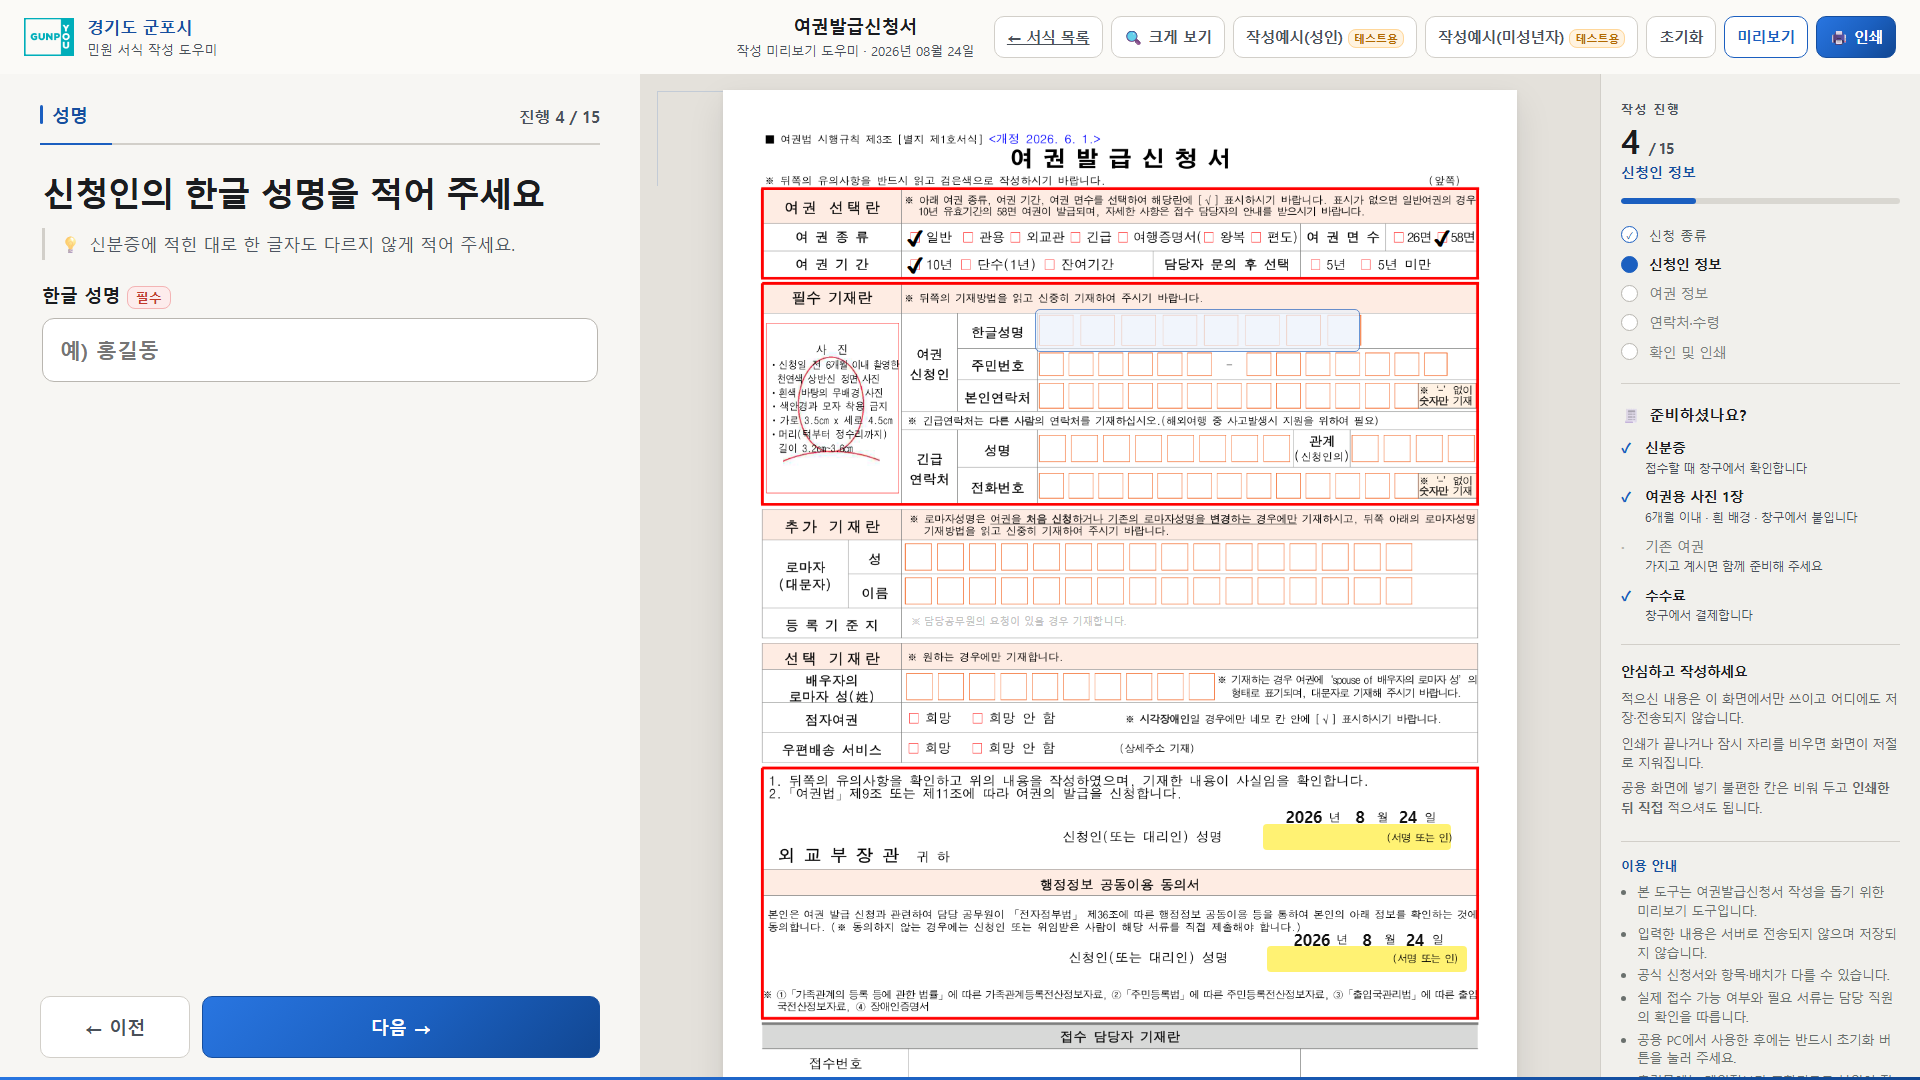
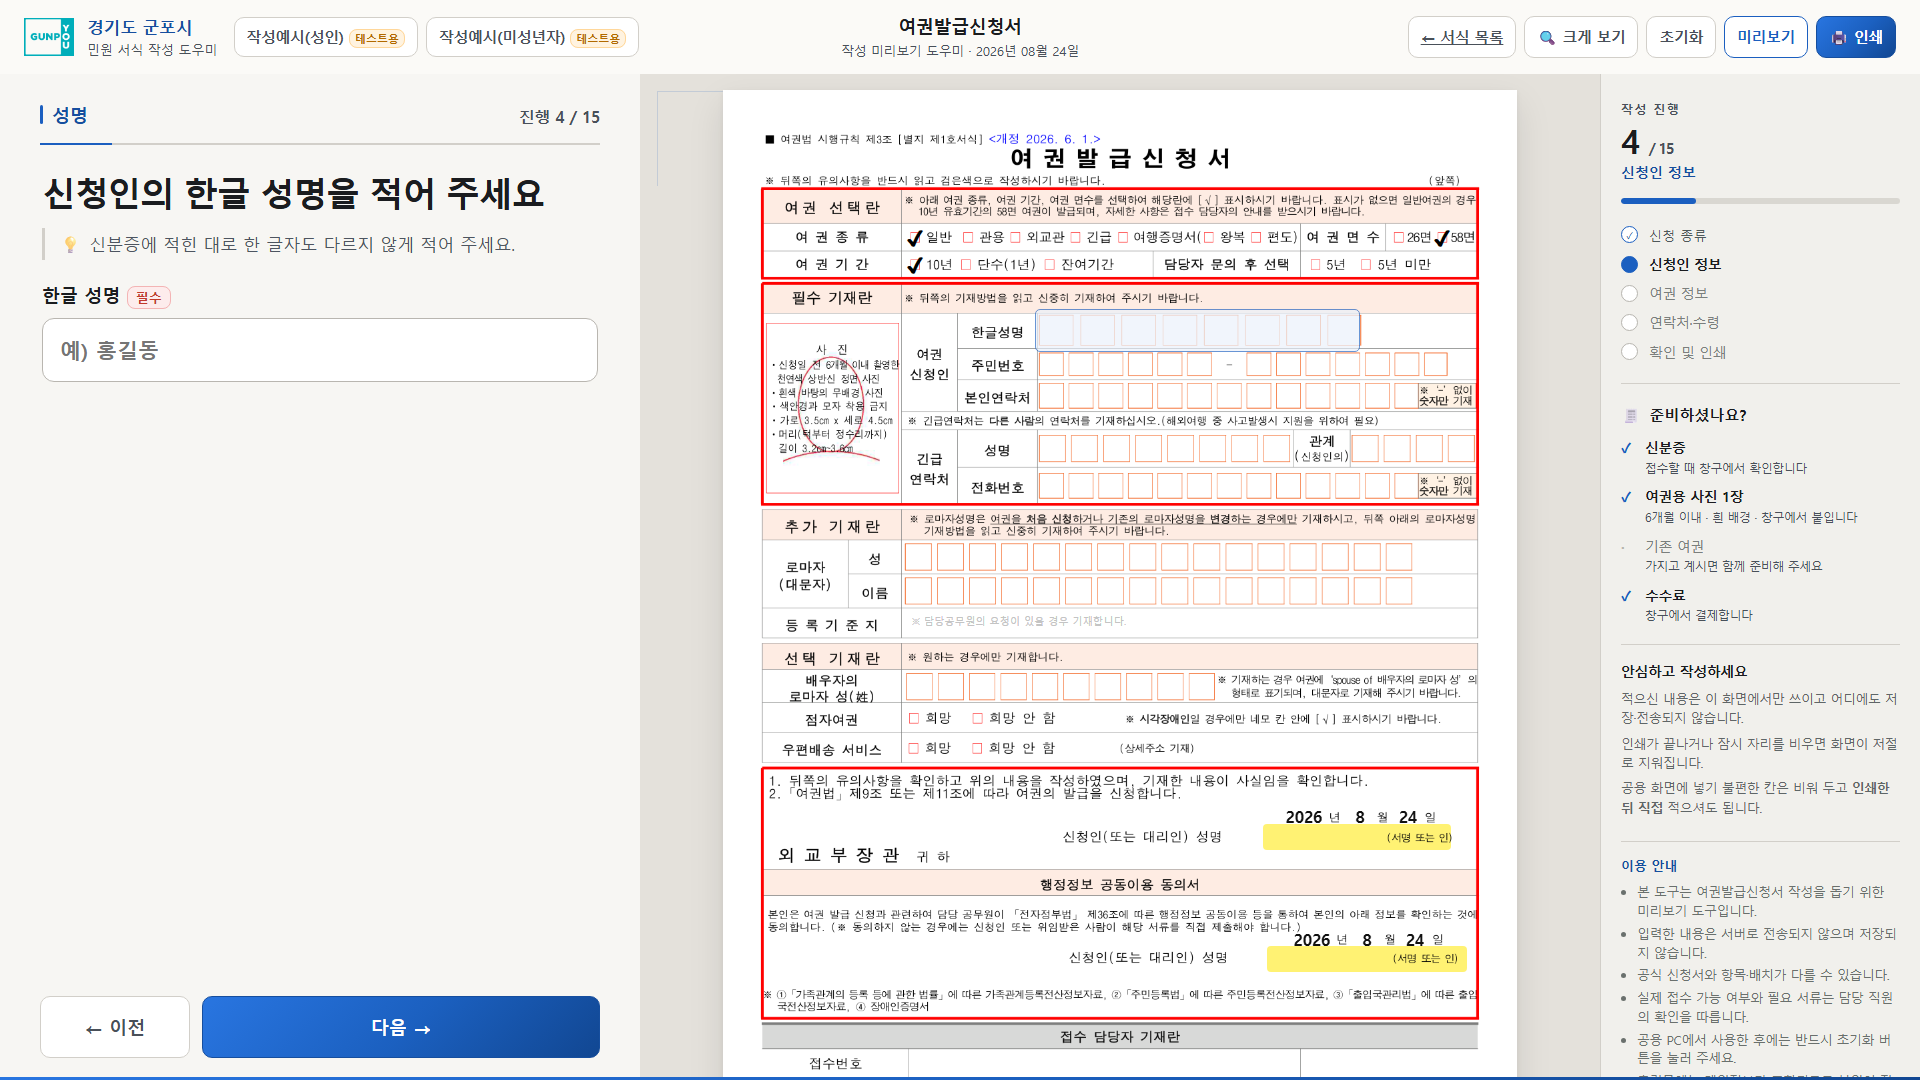
여권: 상단 바 재배치 — 담당자 도구는 왼쪽, 서식 이름은 정중앙
시안(docs/디자인검토/시안/2026.08.24-여권-상단바-재배치.jpg)대로.

■ 「작성예시(성인)·(미성년자)」를 로고 옆 왼쪽으로
  둘 다 **담당자 점검용(테스트용)**인데 시민이 쓰는 버튼들 사이에 끼어 있었다.
  왼쪽 묶음(.lead = 기관 표기 + 담당자 도구)으로 떼어 놓아, 오른쪽에는 시민이
  쓰는 것만 남는다 — 서식 목록 · 크게 보기 · 초기화 · 미리보기 · 인쇄.

■ 서식 이름을 화면 정중앙으로
  `1fr auto auto` 는 남는 폭이 한쪽으로 몰려 제목이 치우친다. 양옆을 **같은 1fr**
  로 두어 가운데가 참 중앙이 되게 했다.
  실측: 1920 에서 제목 중심 952 = 화면 중앙 952. 긴 기관명(경상남도 창원시
  의창구청 민원여권과)·1600·1366 에서도 어긋나지 않고 상단 바는 74px 한 줄이다.

■ ⚠ 좁아지면 담당자 도구를 먼저 감춘다(≤1500px)
  그래야 양옆 폭이 같게 유지되어 제목이 중앙에 남고, 시민이 쓰는 버튼이 두 줄로
  접히지 않는다. 옛 base.html 의 `hide-m` 과 같은 취지다.

⚠ 나머지 7종은 상단 바 구조가 다르다(flex + `.brand{margin-right:auto}`).
   같은 배치로 맞추려면 그쪽 골격부터 바꿔야 해서 이번에는 건드리지 않았다.

확인: verify-print.py 19쪽 0px · --electron 19쪽 0px · verify-site-config(6) ·
check-site-block / check-design-tokens / sync-kiosk --check 통과 ·
제목 중심을 4가지 폭·기관명으로 실측

Changed region(s): [[0.375, 0.0, 0.8438, 0.0611], [0.125, 0.0306, 0.3125, 0.0611]]

diff --git a/kiosk-app/app/passport-helper-v1.html b/kiosk-app/app/passport-helper-v1.html
@@ -294,7 +294,9 @@ html.big{
      기관마다 이름이 다르다(`rebrand.py`). 그래서 수치가 아니라 구조로 막는다.
      기관명·서식 이름에는 이미 말줄임(ellipsis)이 걸려 있어 줄어도 깨지지 않는다. */
   .topbar{
-    display:grid;grid-template-columns:minmax(0,1fr) minmax(0,auto) auto;
+    /* 양옆을 **같은 1fr** 로 두어야 가운데(서식 이름)가 화면 정중앙에 온다.
+       한쪽만 1fr 이면 남는 폭이 한쪽으로 몰려 제목이 치우친다(2026.08.24 시안). */
+    display:grid;grid-template-columns:minmax(0,1fr) auto minmax(0,1fr);
     align-items:center;gap:12px 20px;
     padding:0 24px;min-height:74px;background:var(--head);border-bottom:0;
     position:sticky;top:0;z-index:20;
@@ -303,6 +305,13 @@ html.big{
      `.topbar` 는 인쇄에서 통째로 숨겨지므로 인쇄물과 무관하다. */
   .topbar::after{content:"";position:absolute;left:0;right:0;bottom:0;height:3px;
     background:var(--grad);}
+  /* 왼쪽 묶음 = 기관 표기 + **담당자 점검용 도구**. 시안대로 시민 동선(오른쪽)에서
+     떼어 놓았다. ⚠ `.brand` 만 줄어들게 해서 기관명이 긴 곳에서도 버튼이 안 접힌다. */
+  .lead{display:flex;align-items:center;gap:16px;min-width:0;}
+  .tools-test{display:flex;align-items:center;gap:8px;flex:0 0 auto;}
+  /* ⚠ 좁아지면 담당자용 도구를 먼저 감춘다. 그래야 양옆 폭이 같게 유지되어
+     제목이 중앙에 남고, 시민이 쓰는 버튼이 두 줄로 접히지 않는다. */
+  @media screen and (max-width:1500px){ .tools-test{display:none;} }
   .brand{display:flex;align-items:center;gap:13px;min-width:0;}
   .brand-tx{min-width:0;}
   .brand b{display:block;font-size:17px;color:var(--blue-dark);letter-spacing:-.02em;
@@ -1036,11 +1045,19 @@ html.big{
 <body>
 
 <header class="topbar">
+  <div class="lead">
   <div class="brand">
[1 lines of base64/hex data omitted]
   <div class="brand-tx">
       <b id="orgName"></b>
       <div class="meta">민원 서식 작성 도우미</div>
+    </div>
+  </div>
+    <!-- 담당자 점검용. **시민 동선에서 떼어** 왼쪽에 둔다(2026.08.24 시안).
+         오른쪽에는 시민이 쓰는 것만 남긴다 — 서식 목록·크게 보기·초기화·미리보기·인쇄. -->
+    <div class="tools-test">
+      <button class="btn ghost" id="btnSampleAdult" title="담당자 점검용 작성예시(가상 인물)">작성예시(성인)<span class="test-tag">테스트용</span></button>
+      <button class="btn ghost" id="btnSampleMinor" title="담당자 점검용 작성예시(가상 인물)">작성예시(미성년자)<span class="test-tag">테스트용</span></button>
     </div>
   </div>
   <div class="doc-name">
@@ -1053,8 +1070,6 @@ html.big{
          ⚠ 저장하지 않는다. 다음 시민이 앞사람이 켜 둔 화면을 물려받지 않게 한다. -->
     <button class="btn ghost" id="btnBig" aria-pressed="false"
             title="질문과 글자를 크게 봅니다">🔍 크게 보기</button>
-    <button class="btn ghost" id="btnSampleAdult" title="담당자 점검용 작성예시(가상 인물)">작성예시(성인)<span class="test-tag">테스트용</span></button>
-    <button class="btn ghost" id="btnSampleMinor" title="담당자 점검용 작성예시(가상 인물)">작성예시(미성년자)<span class="test-tag">테스트용</span></button>
     <button class="btn ghost" id="btnReset">초기화</button>
     <button class="btn" id="btnPreview">미리보기</button>
     <button class="btn primary" id="btnPrint">🖨 인쇄</button>

diff --git a/passport-helper-v1.html b/passport-helper-v1.html
@@ -294,7 +294,9 @@ html.big{
      기관마다 이름이 다르다(`rebrand.py`). 그래서 수치가 아니라 구조로 막는다.
      기관명·서식 이름에는 이미 말줄임(ellipsis)이 걸려 있어 줄어도 깨지지 않는다. */
   .topbar{
-    display:grid;grid-template-columns:minmax(0,1fr) minmax(0,auto) auto;
+    /* 양옆을 **같은 1fr** 로 두어야 가운데(서식 이름)가 화면 정중앙에 온다.
+       한쪽만 1fr 이면 남는 폭이 한쪽으로 몰려 제목이 치우친다(2026.08.24 시안). */
+    display:grid;grid-template-columns:minmax(0,1fr) auto minmax(0,1fr);
     align-items:center;gap:12px 20px;
     padding:0 24px;min-height:74px;background:var(--head);border-bottom:0;
     position:sticky;top:0;z-index:20;
@@ -303,6 +305,13 @@ html.big{
      `.topbar` 는 인쇄에서 통째로 숨겨지므로 인쇄물과 무관하다. */
   .topbar::after{content:"";position:absolute;left:0;right:0;bottom:0;height:3px;
     background:var(--grad);}
+  /* 왼쪽 묶음 = 기관 표기 + **담당자 점검용 도구**. 시안대로 시민 동선(오른쪽)에서
+     떼어 놓았다. ⚠ `.brand` 만 줄어들게 해서 기관명이 긴 곳에서도 버튼이 안 접힌다. */
+  .lead{display:flex;align-items:center;gap:16px;min-width:0;}
+  .tools-test{display:flex;align-items:center;gap:8px;flex:0 0 auto;}
+  /* ⚠ 좁아지면 담당자용 도구를 먼저 감춘다. 그래야 양옆 폭이 같게 유지되어
+     제목이 중앙에 남고, 시민이 쓰는 버튼이 두 줄로 접히지 않는다. */
+  @media screen and (max-width:1500px){ .tools-test{display:none;} }
   .brand{display:flex;align-items:center;gap:13px;min-width:0;}
   .brand-tx{min-width:0;}
   .brand b{display:block;font-size:17px;color:var(--blue-dark);letter-spacing:-.02em;
@@ -1036,11 +1045,19 @@ html.big{
 <body>
 
 <header class="topbar">
+  <div class="lead">
   <div class="brand">
[1 lines of base64/hex data omitted]
   <div class="brand-tx">
       <b id="orgName"></b>
       <div class="meta">민원 서식 작성 도우미</div>
+    </div>
+  </div>
+    <!-- 담당자 점검용. **시민 동선에서 떼어** 왼쪽에 둔다(2026.08.24 시안).
+         오른쪽에는 시민이 쓰는 것만 남긴다 — 서식 목록·크게 보기·초기화·미리보기·인쇄. -->
+    <div class="tools-test">
+      <button class="btn ghost" id="btnSampleAdult" title="담당자 점검용 작성예시(가상 인물)">작성예시(성인)<span class="test-tag">테스트용</span></button>
+      <button class="btn ghost" id="btnSampleMinor" title="담당자 점검용 작성예시(가상 인물)">작성예시(미성년자)<span class="test-tag">테스트용</span></button>
     </div>
   </div>
   <div class="doc-name">
@@ -1053,8 +1070,6 @@ html.big{
          ⚠ 저장하지 않는다. 다음 시민이 앞사람이 켜 둔 화면을 물려받지 않게 한다. -->
     <button class="btn ghost" id="btnBig" aria-pressed="false"
             title="질문과 글자를 크게 봅니다">🔍 크게 보기</button>
-    <button class="btn ghost" id="btnSampleAdult" title="담당자 점검용 작성예시(가상 인물)">작성예시(성인)<span class="test-tag">테스트용</span></button>
-    <button class="btn ghost" id="btnSampleMinor" title="담당자 점검용 작성예시(가상 인물)">작성예시(미성년자)<span class="test-tag">테스트용</span></button>
     <button class="btn ghost" id="btnReset">초기화</button>
     <button class="btn" id="btnPreview">미리보기</button>
     <button class="btn primary" id="btnPrint">🖨 인쇄</button>

diff --git a/docs/디자인검토/현재-스타일.css b/docs/디자인검토/현재-스타일.css
@@ -477,7 +477,9 @@ html.big{
      기관마다 이름이 다르다(`rebrand.py`). 그래서 수치가 아니라 구조로 막는다.
      기관명·서식 이름에는 이미 말줄임(ellipsis)이 걸려 있어 줄어도 깨지지 않는다. */
   .topbar{
-    display:grid;grid-template-columns:minmax(0,1fr) minmax(0,auto) auto;
+    /* 양옆을 **같은 1fr** 로 두어야 가운데(서식 이름)가 화면 정중앙에 온다.
+       한쪽만 1fr 이면 남는 폭이 한쪽으로 몰려 제목이 치우친다(2026.08.24 시안). */
+    display:grid;grid-template-columns:minmax(0,1fr) auto minmax(0,1fr);
     align-items:center;gap:12px 20px;
     padding:0 24px;min-height:74px;background:var(--head);border-bottom:0;
     position:sticky;top:0;z-index:20;
@@ -486,6 +488,13 @@ html.big{
      `.topbar` 는 인쇄에서 통째로 숨겨지므로 인쇄물과 무관하다. */
   .topbar::after{content:"";position:absolute;left:0;right:0;bottom:0;height:3px;
     background:var(--grad);}
+  /* 왼쪽 묶음 = 기관 표기 + **담당자 점검용 도구**. 시안대로 시민 동선(오른쪽)에서
+     떼어 놓았다. ⚠ `.brand` 만 줄어들게 해서 기관명이 긴 곳에서도 버튼이 안 접힌다. */
+  .lead{display:flex;align-items:center;gap:16px;min-width:0;}
+  .tools-test{display:flex;align-items:center;gap:8px;flex:0 0 auto;}
+  /* ⚠ 좁아지면 담당자용 도구를 먼저 감춘다. 그래야 양옆 폭이 같게 유지되어
+     제목이 중앙에 남고, 시민이 쓰는 버튼이 두 줄로 접히지 않는다. */
+  @media screen and (max-width:1500px){ .tools-test{display:none;} }
   .brand{display:flex;align-items:center;gap:13px;min-width:0;}
   .brand-tx{min-width:0;}
   .brand b{display:block;font-size:17px;color:var(--blue-dark);letter-spacing:-.02em;
